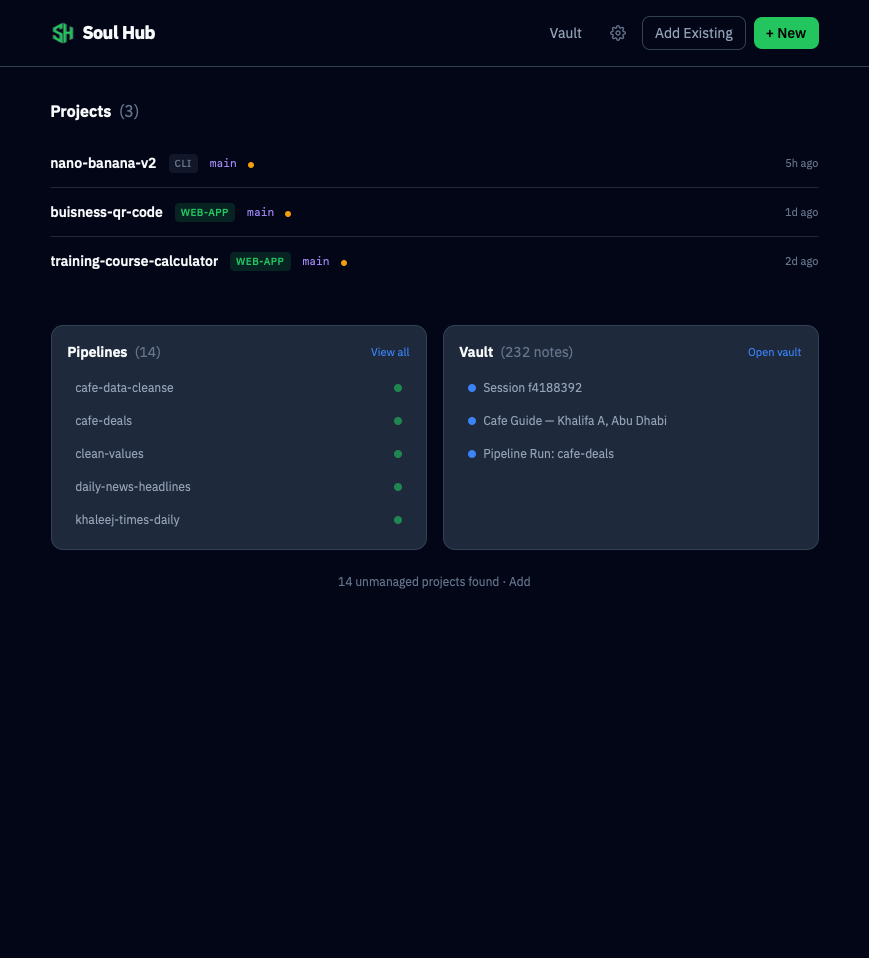
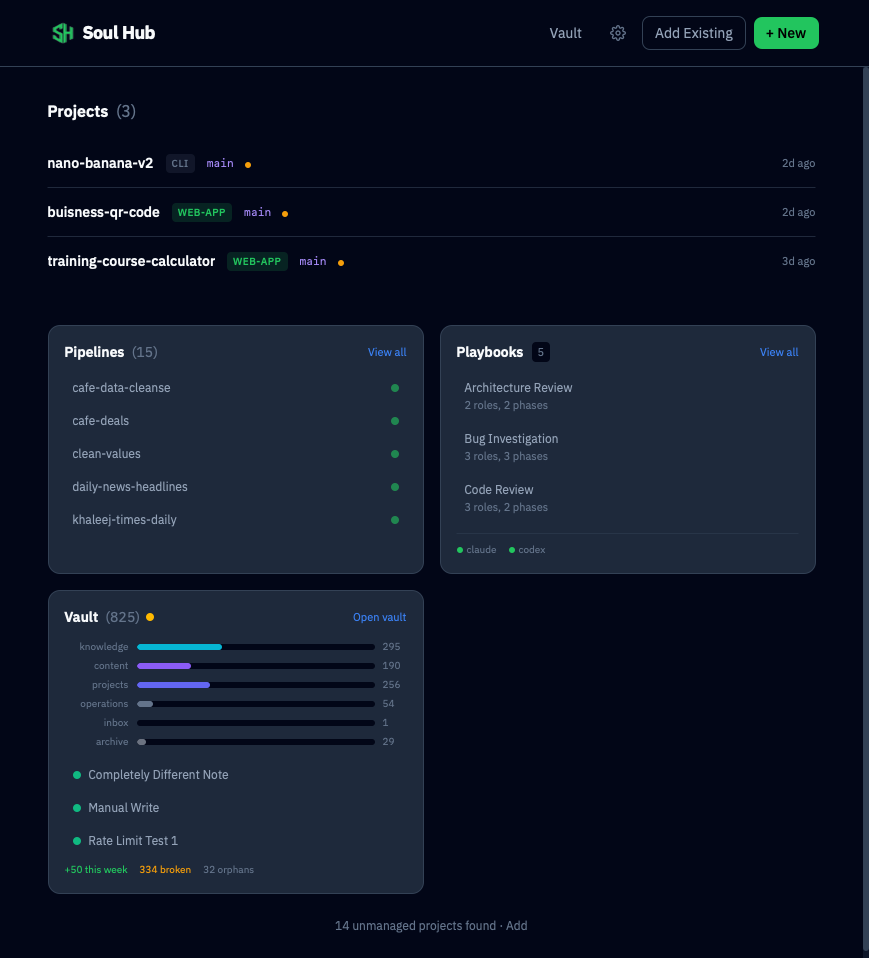
docs: update README with playbooks, vault v2 features, PM2 guide, fresh screenshots
- Add Playbooks section with phase types, hooks, built-in playbooks
- Update Vault section: 6 zones, smart views, bulk ops, RTL, agent write governance
- Add Vault API reference table
- Update architecture tree with playbooks/ directory
- Replace all screenshots with current UI state
- Add playbooks.png and vault-rtl.png screenshots
- Update INSTALL.md PM2 section with npm scripts and process table
- Update requirements table format

diff --git a/README.md b/README.md
@@ -4,7 +4,7 @@
   <img src="static/logo.png" alt="Soul Hub" width="64" />
 </p>
 
-A local-first command center for AI-human collaboration. Manage projects, orchestrate data pipelines, and build a knowledge vault — all from one interface, powered by Claude Code.
+A local-first command center for AI-human collaboration. Manage projects, orchestrate data pipelines, run multi-agent playbooks, and build a knowledge vault — all from one interface, powered by Claude Code.
 
 ![Home](static/screenshots/home.png)
 
@@ -17,11 +17,15 @@ A local-first command center for AI-human collaboration. Manage projects, orches
 **Pipelines** — Build multi-step data pipelines (Python, Bash, Node.js) with a visual editor. Chain pipelines together, run them on schedules, or trigger via webhooks. Agent steps run Claude Code autonomously.
 
 ![Pipelines](static/screenshots/pipelines.png)
-![Pipeline Detail](static/screenshots/pipeline-detail.png)
 
-**Vault** — An Obsidian-compatible knowledge graph built into the app. Pipeline outputs, session logs, and learnings are automatically captured. Browse, search, and connect notes with wikilinks.
+**Playbooks** — Multi-agent orchestration with YAML-defined roles, phases, and hooks. Run parallel code reviews, iterative architecture reviews, content creation pipelines, or bug investigations — each with specialized AI agents working together.
+
+![Playbooks](static/screenshots/playbooks.png)
+
+**Vault** — A governed, Obsidian-compatible knowledge graph with 6 zones, 60+ note types, full-text search, smart filters, and Arabic RTL support. Agent writes are rate-limited and deduplicated. Pipeline outputs and session logs are captured automatically.
 
 ![Vault](static/screenshots/vault.png)
+![Vault RTL](static/screenshots/vault-rtl.png)
 
 **Builder** — A guided system for creating new pipelines and blocks. Comes with reusable components (API client, CSV tools, error handling) and templates.
 
@@ -43,22 +47,42 @@ mkdir -p ~/vault
 # Run in development
 npm run dev
 # Open http://localhost:5173
-
-# — OR — Run in production
-npm run build
-./scripts/start_prod.sh start
-# Open http://localhost:2400
 ```
+
+### Production with PM2
+
+```bash
+# Build the app
+npm run build
+
+# Start with PM2 (includes Cloudflare tunnel if configured)
+npm run prod:start
+# Open http://localhost:2400
+
+# Other production commands
+npm run prod:restart    # Zero-downtime reload
+npm run prod:status     # Show process status
+npm run prod:logs       # Tail logs
+npm run prod:stop       # Stop all processes
+npm run prod:startup    # Enable auto-start on boot
+```
+
+The PM2 config (`ecosystem.config.cjs`) runs two processes:
+- **soul-hub** — The SvelteKit app on port 2400 (512MB memory limit, auto-restart)
+- **soul-hub-tunnel** — Cloudflare Tunnel for remote access (optional)
 
 See [INSTALL.md](INSTALL.md) for detailed setup instructions.
 
 ## Requirements
 
-- **OS**: macOS or Linux
-- **Node.js**: 20+
-- **Claude Code**: [Install Claude Code CLI](https://docs.anthropic.com/en/docs/claude-code)
-- **uv** (optional): For Python pipeline blocks — [Install uv](https://docs.astral.sh/uv/getting-started/installation/)
-- **PM2** (optional): For production deployment — included as a dev dependency
+| Requirement | Version | Required | Install |
+|------------|---------|----------|---------|
+| **Node.js** | 20+ | Yes | [nodejs.org](https://nodejs.org/) or `brew install node` |
+| **Claude Code** | Latest | Yes | [docs.anthropic.com](https://docs.anthropic.com/en/docs/claude-code) |
+| **uv** | Latest | For Python pipelines | [docs.astral.sh/uv](https://docs.astral.sh/uv/getting-started/installation/) |
+| **PM2** | 5+ | For production | Included as dev dependency |
+
+**Platforms**: macOS (Intel + Apple Silicon), Linux (Ubuntu 20.04+, Debian 11+)
 
 ## Architecture
 
@@ -68,11 +92,19 @@ soul-hub/
 │   ├── routes/             # Pages and API endpoints
 │   ├── lib/
 │   │   ├── pipeline/       # Pipeline engine (parser, runner, scheduler)
-│   │   ├── vault/          # Vault engine (indexer, search, graph)
+│   │   ├── playbook/       # Playbook engine (YAML, roles, phases, hooks)
+│   │   ├── vault/          # Vault engine (indexer, search, graph, governance)
 │   │   ├── pty/            # Terminal manager (node-pty sessions)
 │   │   └── components/     # Svelte UI components
 ├── pipelines/              # User pipelines live here
 │   └── _builder/           # Builder system (templates, components, docs)
+├── playbooks/              # Multi-agent playbook definitions
+│   ├── code-review/        # Parallel 3-agent code review
+│   ├── content-creation/   # Research → draft → edit → approve
+│   ├── architecture-review/# Iterative architect ↔ reviewer handoff
+│   ├── bug-investigation/  # Parallel reproduce + trace + fix
+│   ├── solution-design/    # Research → design → gate
+│   └── _templates/         # Starter templates for new playbooks
 ├── catalog/                # Shared blocks and agents
 ├── static/                 # Static assets
 ├── server.js               # Custom Node.js server (SSE, WebSocket)
@@ -85,8 +117,9 @@ soul-hub/
 - **Backend**: SvelteKit API routes + custom Node.js server
 - **Terminal**: node-pty + xterm.js
 - **Pipeline Engine**: Custom DAG runner with chunk/loop/conditional support
-- **Vault**: File-based markdown with YAML frontmatter, wikilinks, full-text search
-- **Production**: PM2 process manager
+- **Playbook Engine**: YAML-defined multi-agent orchestration with phases and hooks
+- **Vault**: File-based markdown with YAML frontmatter, wikilinks, full-text search (MiniSearch)
+- **Production**: PM2 process manager + Cloudflare Tunnel
 
 ## Features
 
@@ -103,13 +136,26 @@ soul-hub/
 - **Chunking**: Split large datasets, process in parallel, merge results
 - **Config UI**: Edit pipeline config files (JSON) from the browser
 
+### Playbooks
+- **YAML-defined**: Roles, phases, hooks, inputs, prerequisites, and output routing
+- **Phase types**: `parallel` (independent agents), `sequential` (ordered handoff), `handoff` (iterative), `gate` (approval checkpoint), `human` (feedback loop)
+- **Pre-run hooks**: Python/Bash scripts that run before agents (static analysis, signal search, brand context loading)
+- **Built-in playbooks**: Code review (3 parallel reviewers), content creation (research → draft → edit → approve), architecture review (iterative), bug investigation (parallel), solution design
+- **Playbook builder**: Create new playbooks from templates with guided setup
+- **Multi-provider**: Claude (Opus, Sonnet, Haiku) with extensible provider registry
+
 ### Vault
-- **Knowledge graph**: Interactive node-link visualization
-- **Zones**: Governed areas with allowed types and required fields
-- **Auto-capture**: Pipeline outputs and terminal sessions saved automatically
-- **Templates**: Structured note types (learning, decision, debugging, output)
-- **Search**: Full-text search across all notes
-- **Health**: Orphan detection, unresolved link tracking, reindex
+- **6 zones**: inbox, projects, knowledge, content, operations, archive — each with governance rules
+- **Knowledge graph**: Interactive node-link visualization with zone coloring
+- **60+ note types**: learning, decision, debugging, pattern, research, draft, recipe, and more
+- **Smart views**: Quick-access filter presets (Signal Forge, Recipes, Drafts, Research, Agents, This Week)
+- **Multi-select filters**: Type and tag multi-select with unified command bar
+- **Bulk operations**: Multi-select notes with move/archive actions
+- **Arabic RTL**: Auto-detects Arabic/Hebrew content and switches to right-to-left layout
+- **Agent writes**: Rate-limited (50/agent/hour), content dedup, audit trail via `GET /api/vault/writes`
+- **Agent context**: `GET /api/vault/agent-context` pre-fetches relevant vault knowledge before agent tasks
+- **Templates**: Structured note types with required sections and governance validation
+- **Health monitoring**: Orphan detection, governance violations, unresolved link tracking
 
 ### Builder
 - Guided pipeline creation with discovery questions
@@ -143,9 +189,28 @@ See [INSTALL.md](INSTALL.md) for all configuration options.
 
 ## API Keys
 
-All API keys are optional. Core features (projects, vault, terminal) work without any keys. Pipeline blocks that need specific APIs will show which keys are missing.
+All API keys are optional. Core features (projects, vault, terminal, playbooks) work without any keys. Pipeline blocks that need specific APIs will show which keys are missing.
 
 Copy `.env.example` to `.env` and add the keys you need.
+
+## Vault API
+
+The vault exposes a REST API for programmatic access:
+
+| Endpoint | Method | Purpose |
+|----------|--------|---------|
+| `/api/vault` | GET | Overview (stats, zones) |
+| `/api/vault/notes` | GET | Search/list with filters |
+| `/api/vault/notes` | POST | Create note (governance-validated) |
+| `/api/vault/notes/[path]` | GET/PUT/DELETE | Read, update, archive note |
+| `/api/vault/graph` | GET | Knowledge graph (nodes + edges) |
+| `/api/vault/writes` | GET | Agent write audit trail |
+| `/api/vault/agent-context` | GET | Pre-fetch context for agent tasks |
+| `/api/vault/health` | GET | Vault health report |
+| `/api/vault/tags` | GET | Tag taxonomy with counts |
+| `/api/vault/reindex` | POST | Force full reindex |
+
+Agents can use the shell tools `vault-context.sh` (read) and `vault-save.sh` (write) for convenience.
 
 ## Remote Access (Optional)
 

diff --git a/INSTALL.md b/INSTALL.md
@@ -78,14 +78,14 @@ npm run dev
 
 Open [http://localhost:5173](http://localhost:5173).
 
-### Production Mode
+### Production Mode (PM2)
 
 ```bash
 # Build the app
 npm run build
 
-# Start with PM2
-./scripts/start_prod.sh start
+# Start with PM2 (runs on port 2400)
+npm run prod:start
 ```
 
 Open [http://localhost:2400](http://localhost:2400).
@@ -93,13 +93,22 @@ Open [http://localhost:2400](http://localhost:2400).
 ### Production Commands
 
 ```bash
-./scripts/start_prod.sh start     # Build and start
-./scripts/start_prod.sh stop      # Stop all processes
-./scripts/start_prod.sh restart   # Rebuild and zero-downtime reload
-./scripts/start_prod.sh status    # Show process status
-./scripts/start_prod.sh logs      # Tail logs
-./scripts/start_prod.sh startup   # Enable auto-start on boot
+npm run prod:start      # Start all processes (app + tunnel)
+npm run prod:stop       # Stop all processes
+npm run prod:restart    # Zero-downtime reload
+npm run prod:status     # Show process status
+npm run prod:logs       # Tail logs
+npm run prod:startup    # Enable auto-start on boot
 ```
+
+The PM2 config is in `ecosystem.config.cjs`. It runs two processes:
+
+| Process | Purpose | Port |
+|---------|---------|------|
+| `soul-hub` | SvelteKit app | 2400 |
+| `soul-hub-tunnel` | Cloudflare Tunnel (optional) | - |
+
+Logs are written to `~/.soul-hub/logs/`. The app auto-restarts on crash with exponential backoff, and respects a 512MB memory limit.
 
 ## Configuration Reference
 

diff --git a/AGENTS.md b/AGENTS.md
@@ -1,7 +1,7 @@
 <!-- gitnexus:start -->
 # GitNexus — Code Intelligence
 
-This project is indexed by GitNexus as **soul-hub** (3083 symbols, 6037 relationships, 237 execution flows). Use the GitNexus MCP tools to understand code, assess impact, and navigate safely.
+This project is indexed by GitNexus as **soul-hub** (3097 symbols, 6061 relationships, 238 execution flows). Use the GitNexus MCP tools to understand code, assess impact, and navigate safely.
 
 > If any GitNexus tool warns the index is stale, run `npx gitnexus analyze` in terminal first.
 

diff --git a/CLAUDE.md b/CLAUDE.md
@@ -1,7 +1,7 @@
 <!-- gitnexus:start -->
 # GitNexus — Code Intelligence
 
-This project is indexed by GitNexus as **soul-hub** (3083 symbols, 6037 relationships, 237 execution flows). Use the GitNexus MCP tools to understand code, assess impact, and navigate safely.
+This project is indexed by GitNexus as **soul-hub** (3097 symbols, 6061 relationships, 238 execution flows). Use the GitNexus MCP tools to understand code, assess impact, and navigate safely.
 
 > If any GitNexus tool warns the index is stale, run `npx gitnexus analyze` in terminal first.
 
